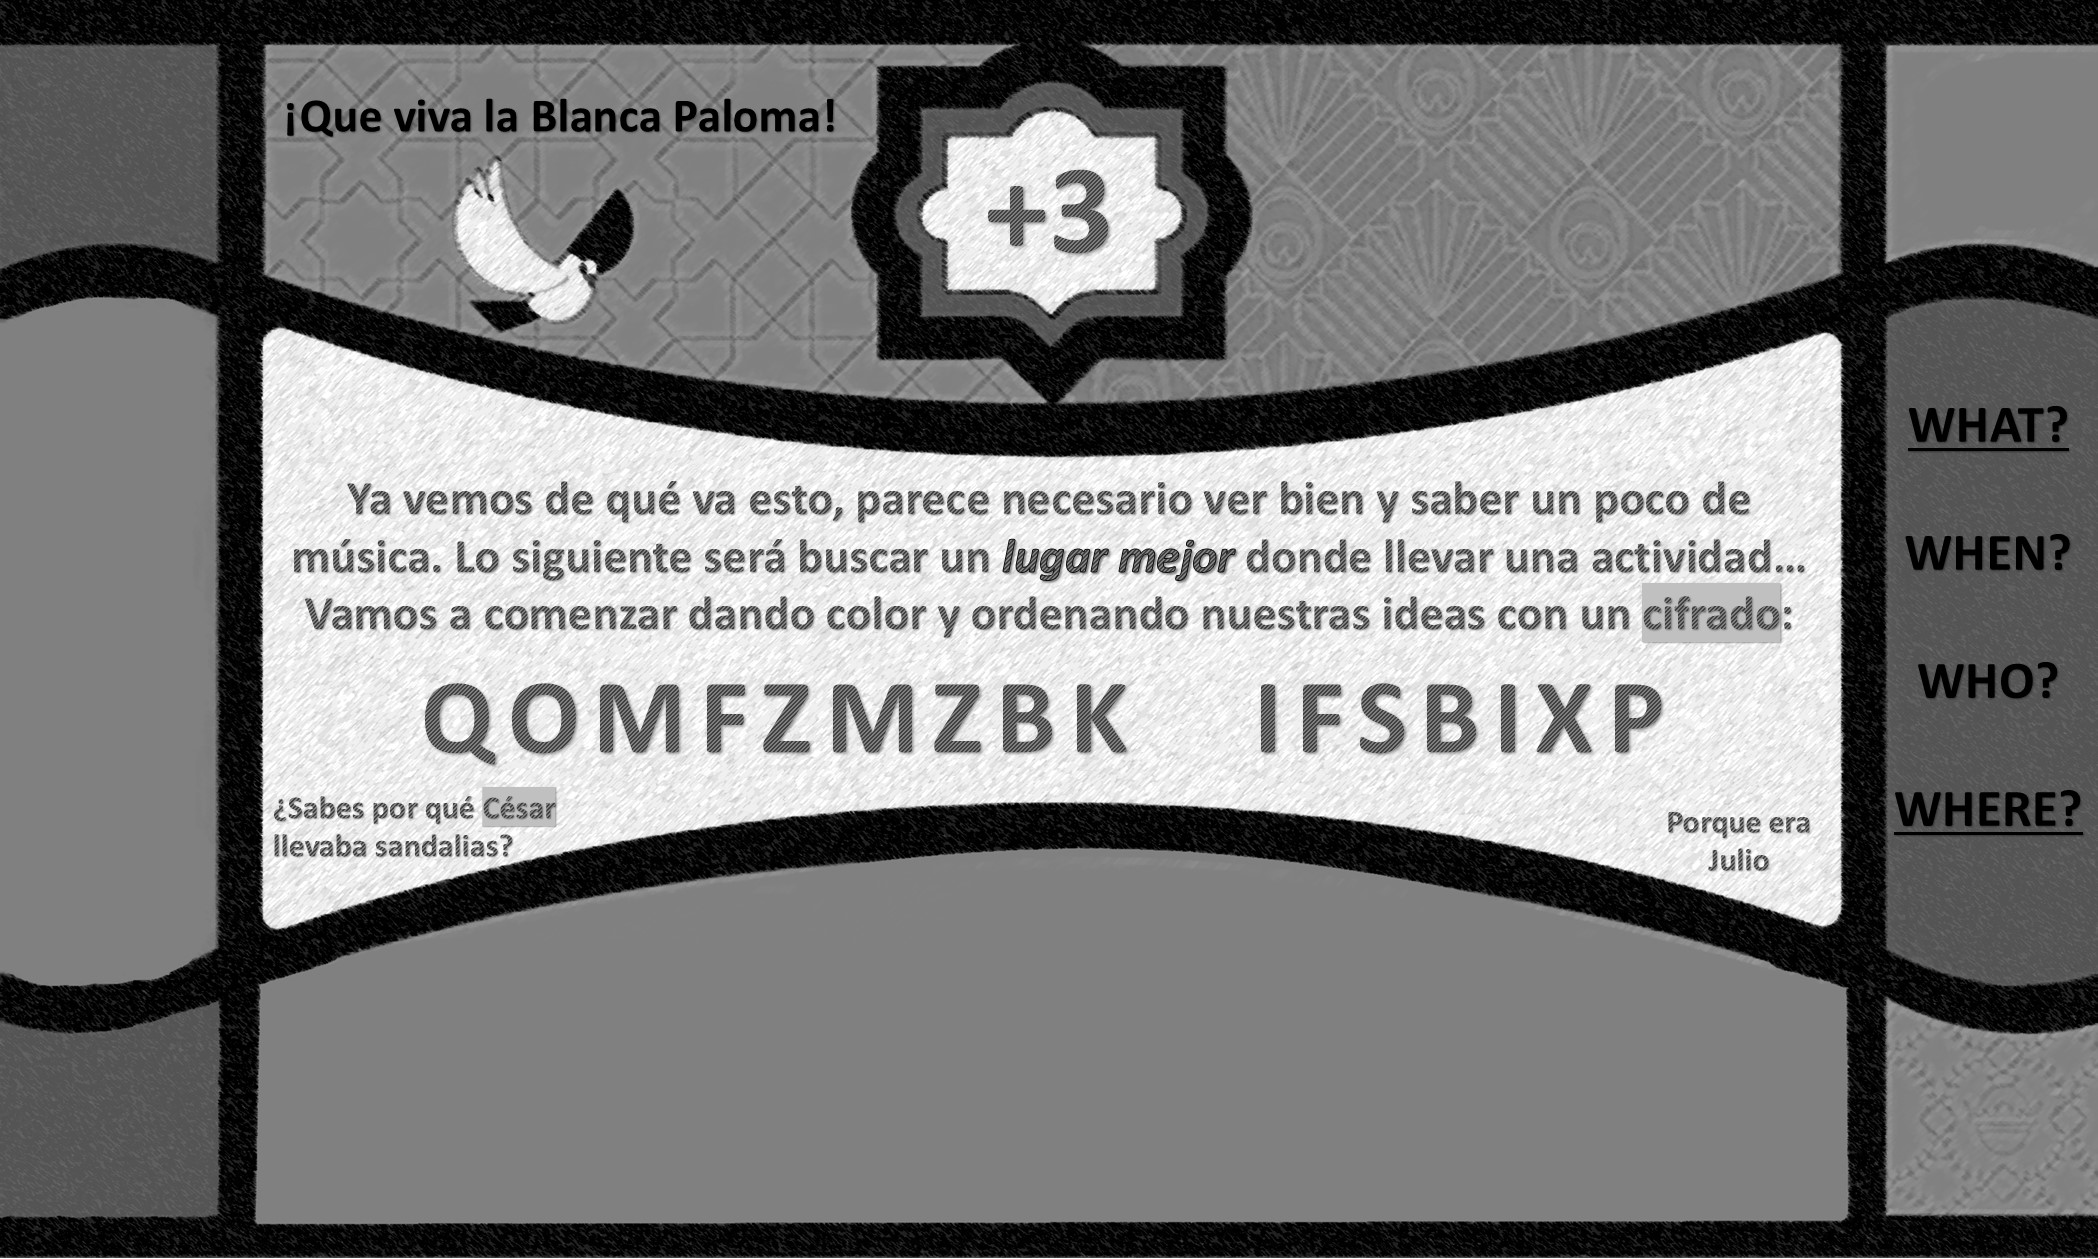
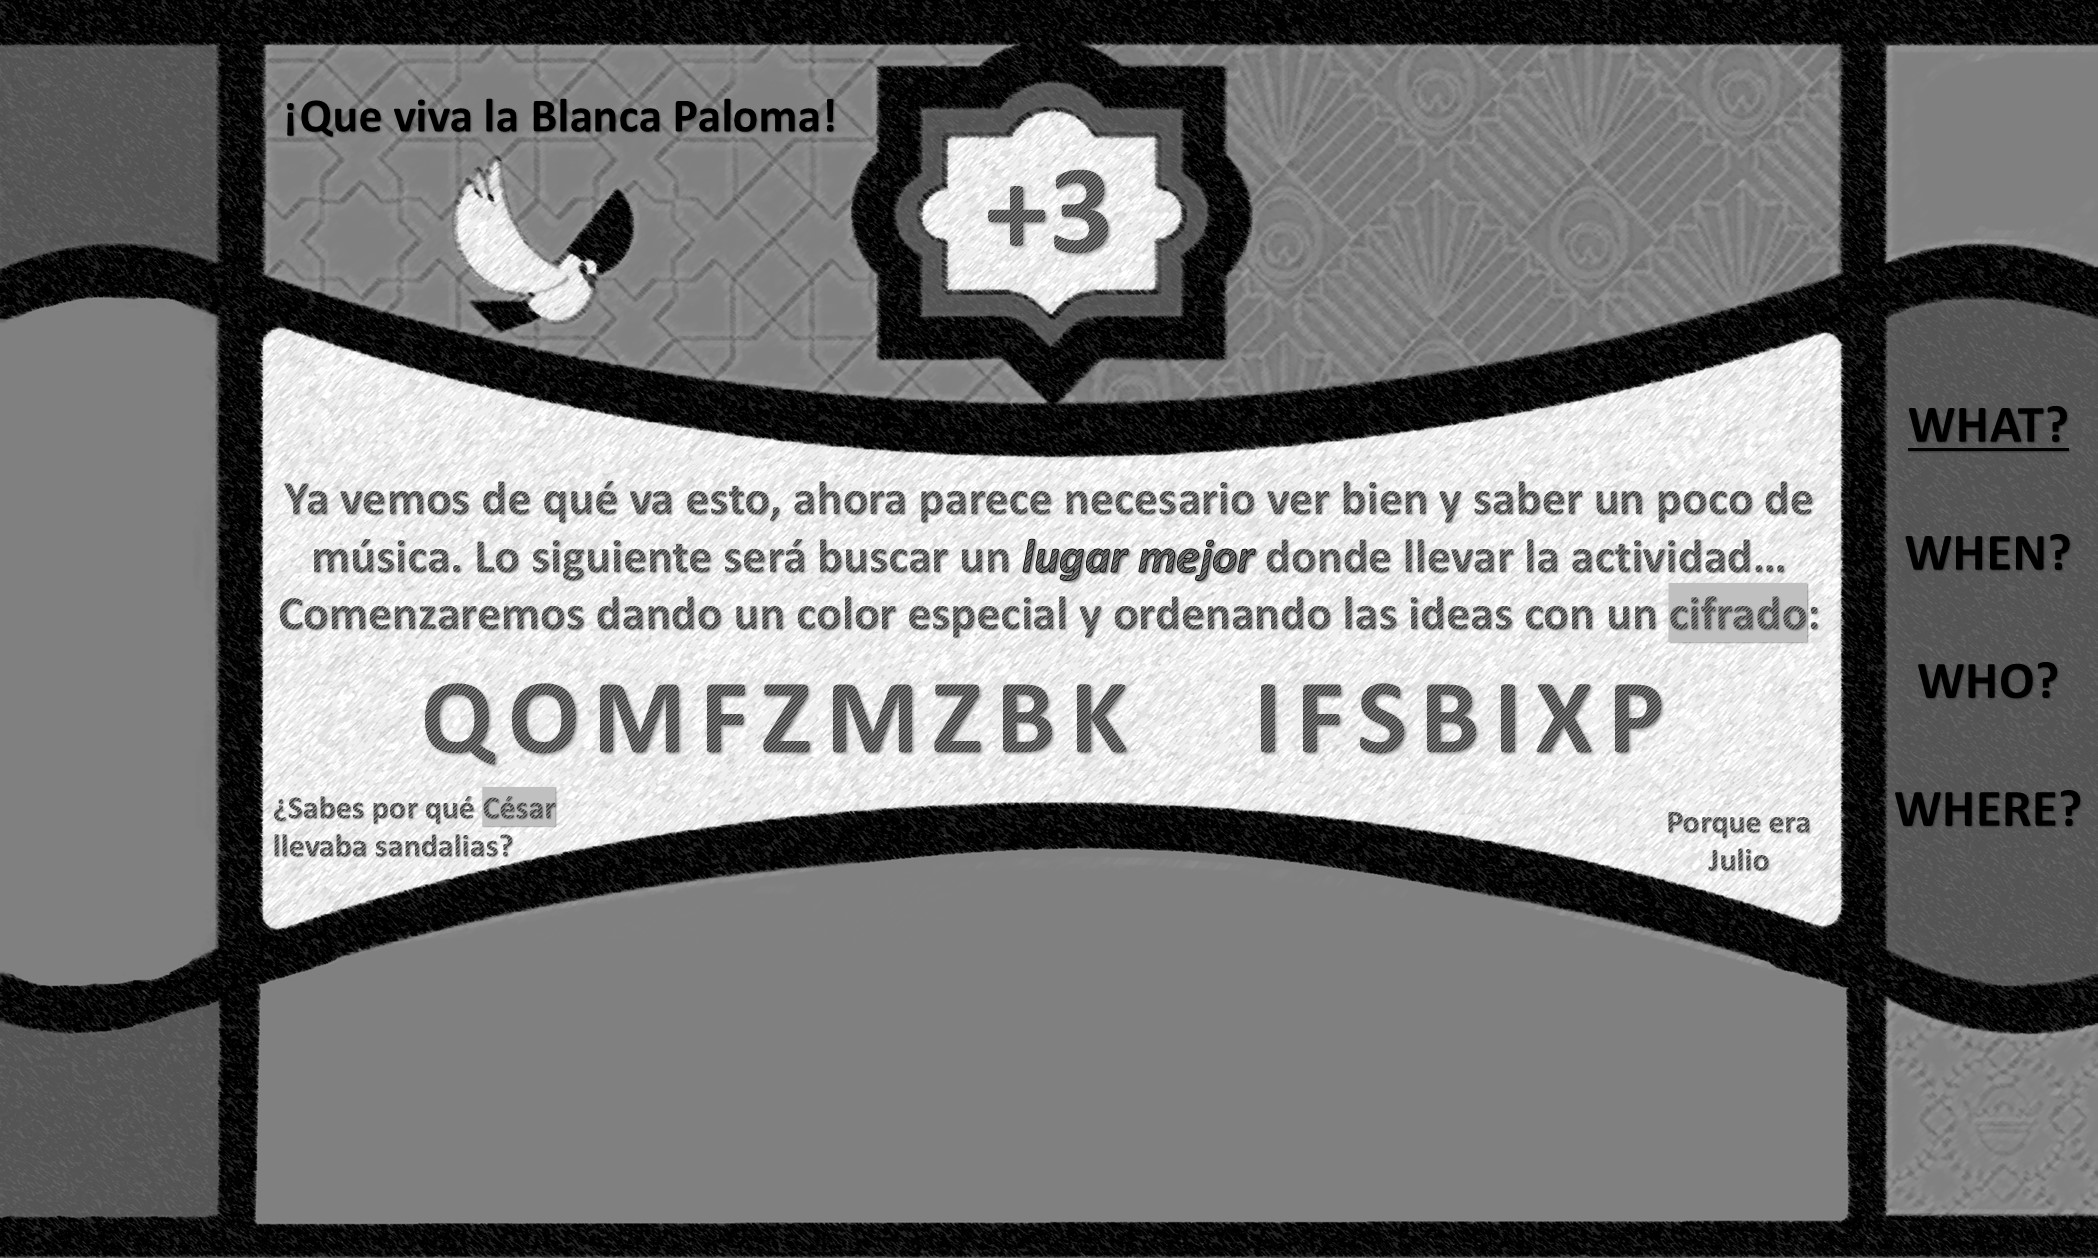
ultimas correcciones

Changed region(s): [[0.1239, 0.3717, 0.8675, 0.5266]]

diff --git a/src/js/store/flux.js b/src/js/store/flux.js
@@ -49,7 +49,7 @@ const getState = ({ getStore, getActions, setStore }) => {
 						break;
 					case 4:
 						setStore({solucion: "concierto sevilla"})
-						setStore({pista1: "PISTA 1: Subraya lo importante para saber qué buscamos: cifrar y ordenar",
+						setStore({pista1: "PISTA 1: Marca lo importante para saber qué buscamos: cifrar y ordenar",
 							pista2: "PISTA 2: Es importante ver bien, que te guste la música y tener un color especial"
 						})
 						break;
@@ -67,7 +67,7 @@ const getState = ({ getStore, getActions, setStore }) => {
 						break;
 					case 7:
 						setStore({solucion: "justin timberlake"})
-						setStore({pista1: "PISTA 1: sólo en algunos lugares se disfruta",
+						setStore({pista1: "PISTA 1: SÓLO EN algunos lugares se disfruta",
 							pista2: "Pista 2: Para la imagen muy tradicional necesitarás un C2 en el idioma de la letra doble del abecedario"
 						})
 						break;
